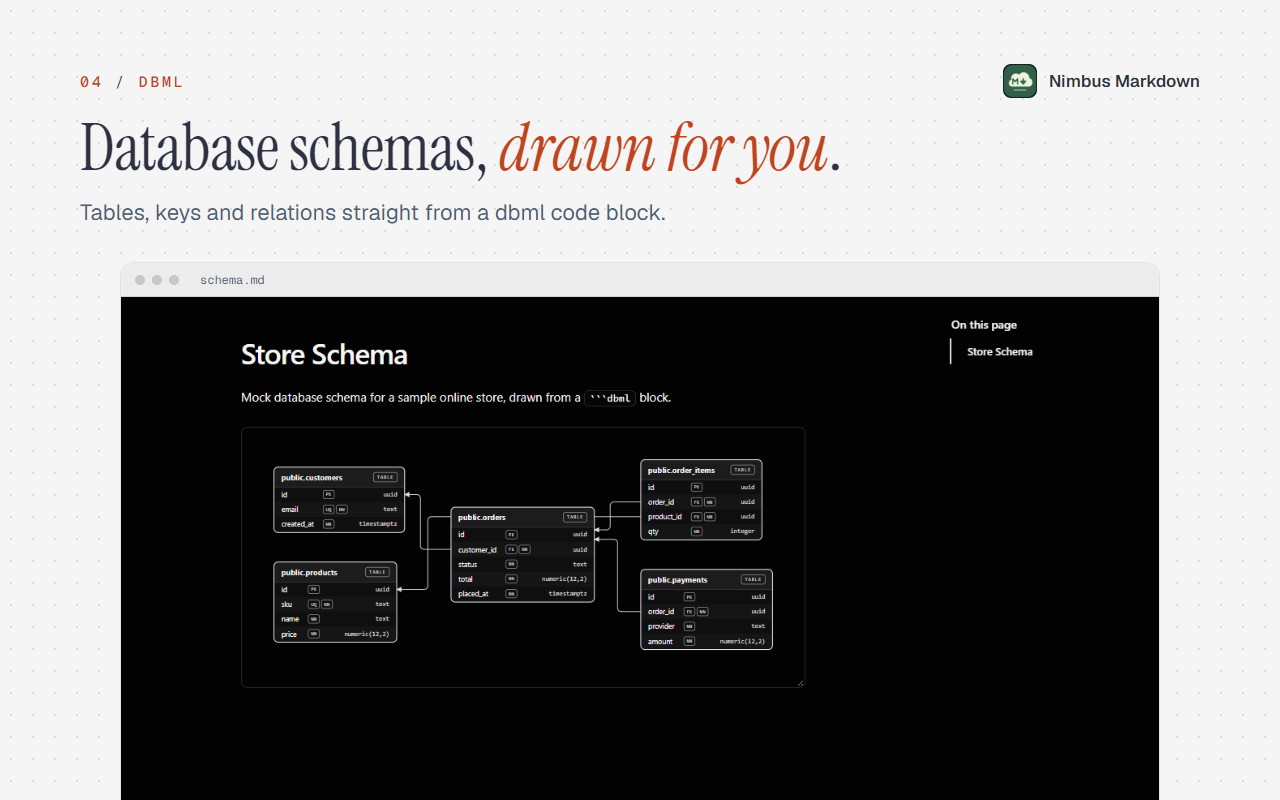
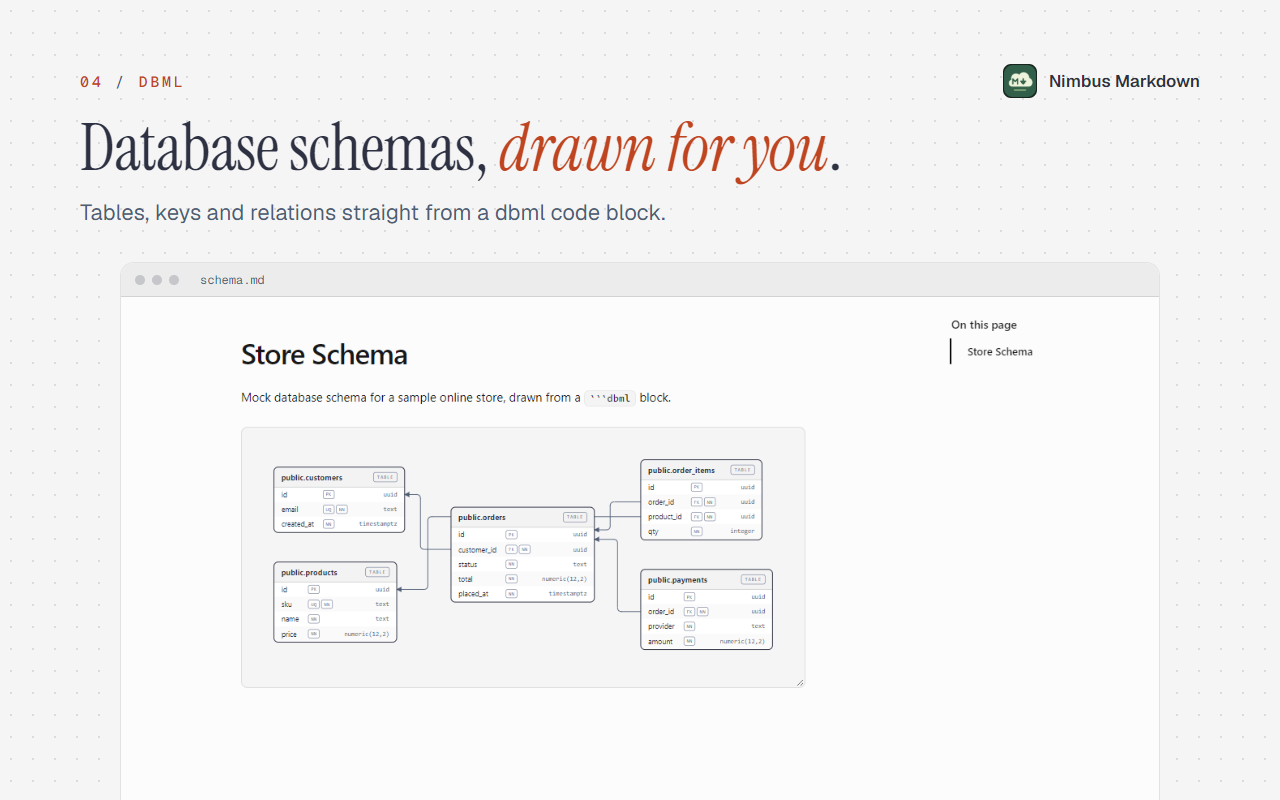
docs(screenshots): show the DBML schema in the light theme

diff --git a/site/index.html b/site/index.html
@@ -198,7 +198,7 @@ footer .wrap { display: flex; flex-wrap: wrap; justify-content: space-between; g
           <figcaption><strong>Timeline</strong><span>Years spaced by elapsed time, revealed one by one.</span></figcaption>
         </figure>
         <figure>
-          <div class="shot"><picture><source srcset="screenshots/04-dbml-dark.png" media="(prefers-reduced-motion: reduce)"><img src="screenshots/fullscreen-dbml.gif" width="1280" height="720" loading="lazy" alt="DBML schema where hovering a table lights up its foreign keys"></picture></div>
+          <div class="shot"><picture><source srcset="screenshots/04-dbml.png" media="(prefers-reduced-motion: reduce)"><img src="screenshots/fullscreen-dbml.gif" width="1280" height="720" loading="lazy" alt="DBML schema where hovering a table lights up its foreign keys"></picture></div>
           <figcaption><strong>DBML schema</strong><span>Hover a table and its keys light up with a pulse.</span></figcaption>
         </figure>
       </div>

diff --git a/docs/store/assets.html b/docs/store/assets.html
@@ -90,7 +90,7 @@ h1 em { font-style: italic; color: var(--accent); }
     <h1>Database schemas, <em>drawn for you</em>.</h1>
     <p class="sub">Tables, keys and relations straight from a dbml code block.</p>
   </div>
-  <div class="frame"><div class="bar"><i></i><i></i><i></i><span>schema.md</span></div><img src="../screenshots/04-dbml-dark.png" alt=""></div>
+  <div class="frame"><div class="bar"><i></i><i></i><i></i><span>schema.md</span></div><img src="../screenshots/04-dbml.png" alt=""></div>
 </div>
 
 <div class="canvas shot" data-out="screenshot-05-document.png">

diff --git a/README.md b/README.md
@@ -21,7 +21,7 @@ Open any `.md` file in Chrome and read it as a clean, themed document. Click ful
   <tr>
     <td><img src="docs/screenshots/01-flowchart-fullscreen.png" width="230" alt="Flowchart node popup in fullscreen"></td>
     <td><img src="docs/screenshots/02-sequence-dark.png" width="230" alt="Sequence diagram in the dark theme"></td>
-    <td><img src="docs/screenshots/04-dbml-dark.png" width="230" alt="DBML schema drawn as table cards"></td>
+    <td><img src="docs/screenshots/04-dbml.png" width="230" alt="DBML schema drawn as table cards"></td>
   </tr>
 </table>
 

diff --git a/README.th.md b/README.th.md
@@ -21,7 +21,7 @@
   <tr>
     <td><img src="docs/screenshots/01-flowchart-fullscreen.png" width="230" alt="popup ของ node ใน flowchart"></td>
     <td><img src="docs/screenshots/02-sequence-dark.png" width="230" alt="Sequence diagram ในธีมมืด"></td>
-    <td><img src="docs/screenshots/04-dbml-dark.png" width="230" alt="DBML schema แบบการ์ดตาราง"></td>
+    <td><img src="docs/screenshots/04-dbml.png" width="230" alt="DBML schema แบบการ์ดตาราง"></td>
   </tr>
 </table>
 
